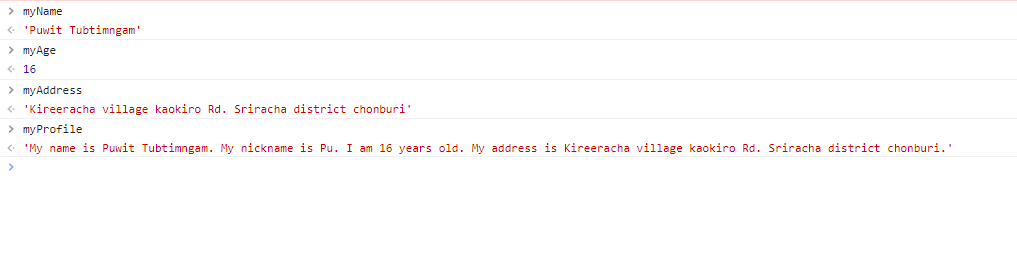
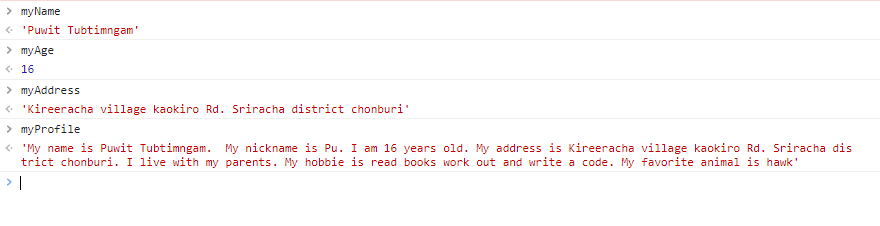
modified Ex_2

Changed region(s): [[0.0, 0.6195, 0.9818, 0.7434], [0.0, 0.4646, 0.9511, 0.5885], [0.0, 0.031, 0.3989, 0.4336]]

diff --git a/4-javaScript/Ex_2/README.md b/4-javaScript/Ex_2/README.md
@@ -6,3 +6,5 @@
    *  กำหนดตัวแปรสำหรับเก็บอายุ และกำหนดค่าเริ่มต้นเป็นอายุของผู้เรียน
    *  กำหนดตัวแปรสำหรับเก็บที่อยู่ และกำหนดค่าเริ่มต้นเป็นที่อยู่ของผู้เรียน
    *  กำหนดตัวแปรสำหรับเก็บประวัติของนักเรียนโดยใช้ตัวแปรทั้ง 3 ตัวด้านบนประกอบการเขียนประวัตินี้ด้วย
+
+> **Result** ![](Ex2.PNG)
